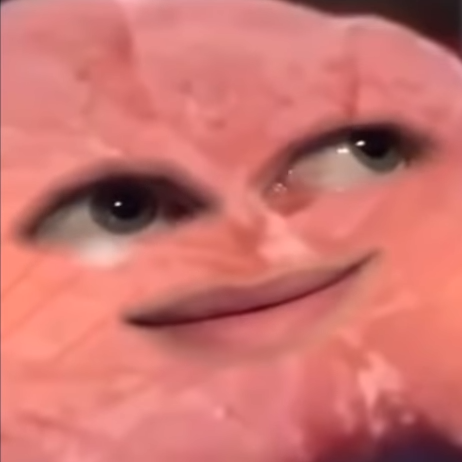
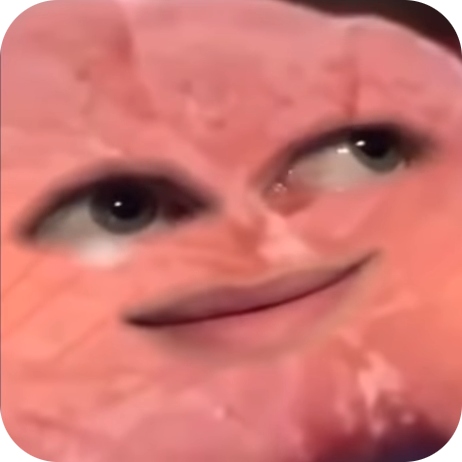
Fixed !song bug when on backup, Manual SR through the player

diff --git a/player/renderer/index.html b/player/renderer/index.html
@@ -340,6 +340,65 @@
     }
 
     /* ── Backup playlist ── */
+    #manual-sr-section {
+      padding: 10px 16px 12px;
+      border-top: 1px solid #2d2d31;
+      flex-shrink: 0;
+    }
+
+    #manual-sr-section .label {
+      font-size: 10px;
+      font-weight: 700;
+      letter-spacing: 1px;
+      color: #adadb8;
+      text-transform: uppercase;
+      margin-bottom: 6px;
+    }
+
+    #manual-sr-input-row {
+      display: flex;
+      gap: 6px;
+      align-items: center;
+    }
+
+    #manual-sr-input {
+      flex: 1;
+      background: #0e0e10;
+      border: 1px solid #3d3d43;
+      border-radius: 6px;
+      color: #efeff1;
+      font-size: 11px;
+      padding: 7px 10px;
+      outline: none;
+      transition: border-color 0.15s;
+      min-width: 0;
+    }
+
+    #manual-sr-input:focus { border-color: #bf94ff; }
+    #manual-sr-input::placeholder { color: #3d3d43; }
+
+    #btn-manual-sr {
+      background: #2d2d31;
+      color: #efeff1;
+      border: none;
+      border-radius: 6px;
+      font-size: 11px;
+      font-weight: 600;
+      padding: 7px 12px;
+      cursor: pointer;
+      white-space: nowrap;
+      transition: background 0.15s;
+    }
+
+    #btn-manual-sr:hover { background: #3d3d43; }
+    #btn-manual-sr:disabled { opacity: 0.5; cursor: default; }
+
+    #manual-sr-status {
+      font-size: 10px;
+      margin-top: 4px;
+      min-height: 14px;
+    }
+
     #backup-section {
       padding: 10px 16px 12px;
       border-top: 1px solid #2d2d31;
@@ -448,6 +507,15 @@
 
     <div id="queue-list">
       <div id="queue-empty">Queue is empty</div>
+    </div>
+
+    <div id="manual-sr-section">
+      <div class="label">Manual Song Request</div>
+      <div id="manual-sr-input-row">
+        <input id="manual-sr-input" type="text" placeholder="YouTube URL" spellcheck="false" />
+        <button id="btn-manual-sr">Add</button>
+      </div>
+      <div id="manual-sr-status"></div>
     </div>
 
     <div id="backup-section">

diff --git a/player/main.js b/player/main.js
@@ -23,6 +23,7 @@ let requestsEnabled = true
 let volume = 100
 let backupPlaylistUrl = ''
 let backupMode = false
+let backupCurrentTrack = null
 
 // Keep a reference to the active bot socket so we can push status updates
 let botSocket = null
@@ -144,11 +145,12 @@ function broadcast() {
 
 function pushStatusToBot() {
   if (botSocket && botSocket.readyState === botSocket.OPEN) {
+    const active = currentTrack || (backupMode ? backupCurrentTrack : null)
     botSocket.send(JSON.stringify({
       type: 'status',
       requestsEnabled,
-      current: currentTrack
-        ? { title: currentTrack.title, url: currentTrack.url, requester: currentTrack.requester }
+      current: active
+        ? { title: active.title, url: active.url, requester: active.requester }
         : null
     }))
   }
@@ -163,6 +165,7 @@ function playNext() {
       playBackupPlaylist()
     } else {
       backupMode = false
+      backupCurrentTrack = null
       broadcast()
       playerView.webContents.loadURL('about:blank')
     }
@@ -170,6 +173,7 @@ function playNext() {
   }
 
   backupMode = false
+  backupCurrentTrack = null
   currentTrack = queue.shift()
   isPaused = false
   broadcast()
@@ -296,6 +300,7 @@ function addToQueue(url, requester, title) {
 
   if (backupMode) {
     backupMode = false
+    backupCurrentTrack = null
     playNext()
   } else {
     broadcast()
@@ -325,13 +330,23 @@ function startPollTimer() {
       return
     }
 
-    // In backup mode: only re-trigger if the entire playlist has ended
+    // In backup mode: track current song for !song command, re-trigger if playlist ended
     if (backupMode) {
       try {
-        const state = await playerView.webContents.executeJavaScript(
-          `document.querySelector('#movie_player')?.getPlayerState() ?? -1`
-        )
-        if (state === 0) playBackupPlaylist() // playlist ended — loop it
+        const info = await playerView.webContents.executeJavaScript(`
+          const p = document.querySelector('#movie_player')
+          const state = p?.getPlayerState() ?? -1
+          const data = p?.getVideoData?.() ?? {}
+          ;({ state, title: data.title || null, videoId: data.video_id || null })
+        `)
+        if (info.state === 0) {
+          playBackupPlaylist()
+        } else if (info.videoId) {
+          const url = `https://www.youtube.com/watch?v=${info.videoId}`
+          const changed = !backupCurrentTrack || backupCurrentTrack.videoId !== info.videoId
+          backupCurrentTrack = { title: info.title || info.videoId, url, videoId: info.videoId, requester: 'Backup Playlist' }
+          if (changed) pushStatusToBot()
+        }
       } catch {}
       return
     }
@@ -404,6 +419,21 @@ ipcMain.on('update-backup-playlist', (_e, url) => {
   broadcast()
   // Immediately switch to the new playlist if idle or already in backup mode
   if (backupPlaylistUrl && (!currentTrack || backupMode)) playBackupPlaylist()
+})
+
+ipcMain.handle('manual-sr', async (_e, url) => {
+  const trimmed = (url || '').trim()
+  if (!isYouTubeUrl(trimmed)) return { ok: false, error: 'Invalid YouTube URL' }
+  let title = null
+  try {
+    const res = await fetch(`https://www.youtube.com/oembed?url=${encodeURIComponent(trimmed)}&format=json`)
+    if (res.ok) {
+      const data = await res.json()
+      title = data.title || null
+    }
+  } catch { /* title stays null */ }
+  const position = addToQueue(trimmed, 'Manual', title)
+  return { ok: true, title: title || trimmed, position }
 })
 
 // ── WebSocket server (SurferStalker bot connects here) ────────────────────────

diff --git a/player/renderer/index.js b/player/renderer/index.js
@@ -18,6 +18,9 @@ const queueCount     = document.getElementById('queue-count')
 const backupInput      = document.getElementById('backup-input')
 const backupModeDot    = document.getElementById('backup-mode-dot')
 const btnBackupUpdate  = document.getElementById('btn-backup-update')
+const manualSrInput    = document.getElementById('manual-sr-input')
+const btnManualSr      = document.getElementById('btn-manual-sr')
+const manualSrStatus   = document.getElementById('manual-sr-status')
 
 function thumbUrl(videoId) {
   return videoId ? `https://img.youtube.com/vi/${videoId}/mqdefault.jpg` : null
@@ -146,6 +149,35 @@ volumeSlider.addEventListener('input', () => {
   volumeLabel.textContent = v
   window.playerAPI.setVolume(v)
 })
+
+// Manual SR
+function setManualSrStatus(msg, isError) {
+  manualSrStatus.textContent = msg
+  manualSrStatus.style.color = isError ? '#f87171' : '#86efac'
+  if (msg) setTimeout(() => { manualSrStatus.textContent = '' }, 4000)
+}
+
+async function submitManualSr() {
+  const url = manualSrInput.value.trim()
+  if (!url) return
+  btnManualSr.disabled = true
+  setManualSrStatus('Adding...', false)
+  try {
+    const result = await window.playerAPI.manualSr(url)
+    if (result.ok) {
+      setManualSrStatus(`Queued: ${result.title} (#${result.position})`, false)
+      manualSrInput.value = ''
+    } else {
+      setManualSrStatus(result.error || 'Failed', true)
+    }
+  } catch {
+    setManualSrStatus('Error', true)
+  }
+  btnManualSr.disabled = false
+}
+
+btnManualSr.addEventListener('click', submitManualSr)
+manualSrInput.addEventListener('keydown', (e) => { if (e.key === 'Enter') submitManualSr() })
 
 // Backup playlist — save on blur/Enter (no immediate switch); Update button switches immediately
 backupInput.addEventListener('blur', () => window.playerAPI.setBackupPlaylist(backupInput.value))

diff --git a/player/preload.js b/player/preload.js
@@ -9,5 +9,6 @@ contextBridge.exposeInMainWorld('playerAPI', {
   removeFromQueue:  (i)   => ipcRenderer.send('remove-from-queue', i),
   toggleRequests:   ()    => ipcRenderer.send('toggle-requests'),
   setBackupPlaylist:(url) => ipcRenderer.send('set-backup-playlist', url),
-  updateBackupPlaylist:(url) => ipcRenderer.send('update-backup-playlist', url)
+  updateBackupPlaylist:(url) => ipcRenderer.send('update-backup-playlist', url),
+  manualSr:(url) => ipcRenderer.invoke('manual-sr', url)
 })

diff --git a/TODO.md b/TODO.md
@@ -1,4 +1,3 @@
 TODO: 
 -Chat between Discord and Twitch
 -Showemote and !playsound if i can get stuff into a local .html browser source
--Test Automatic raids